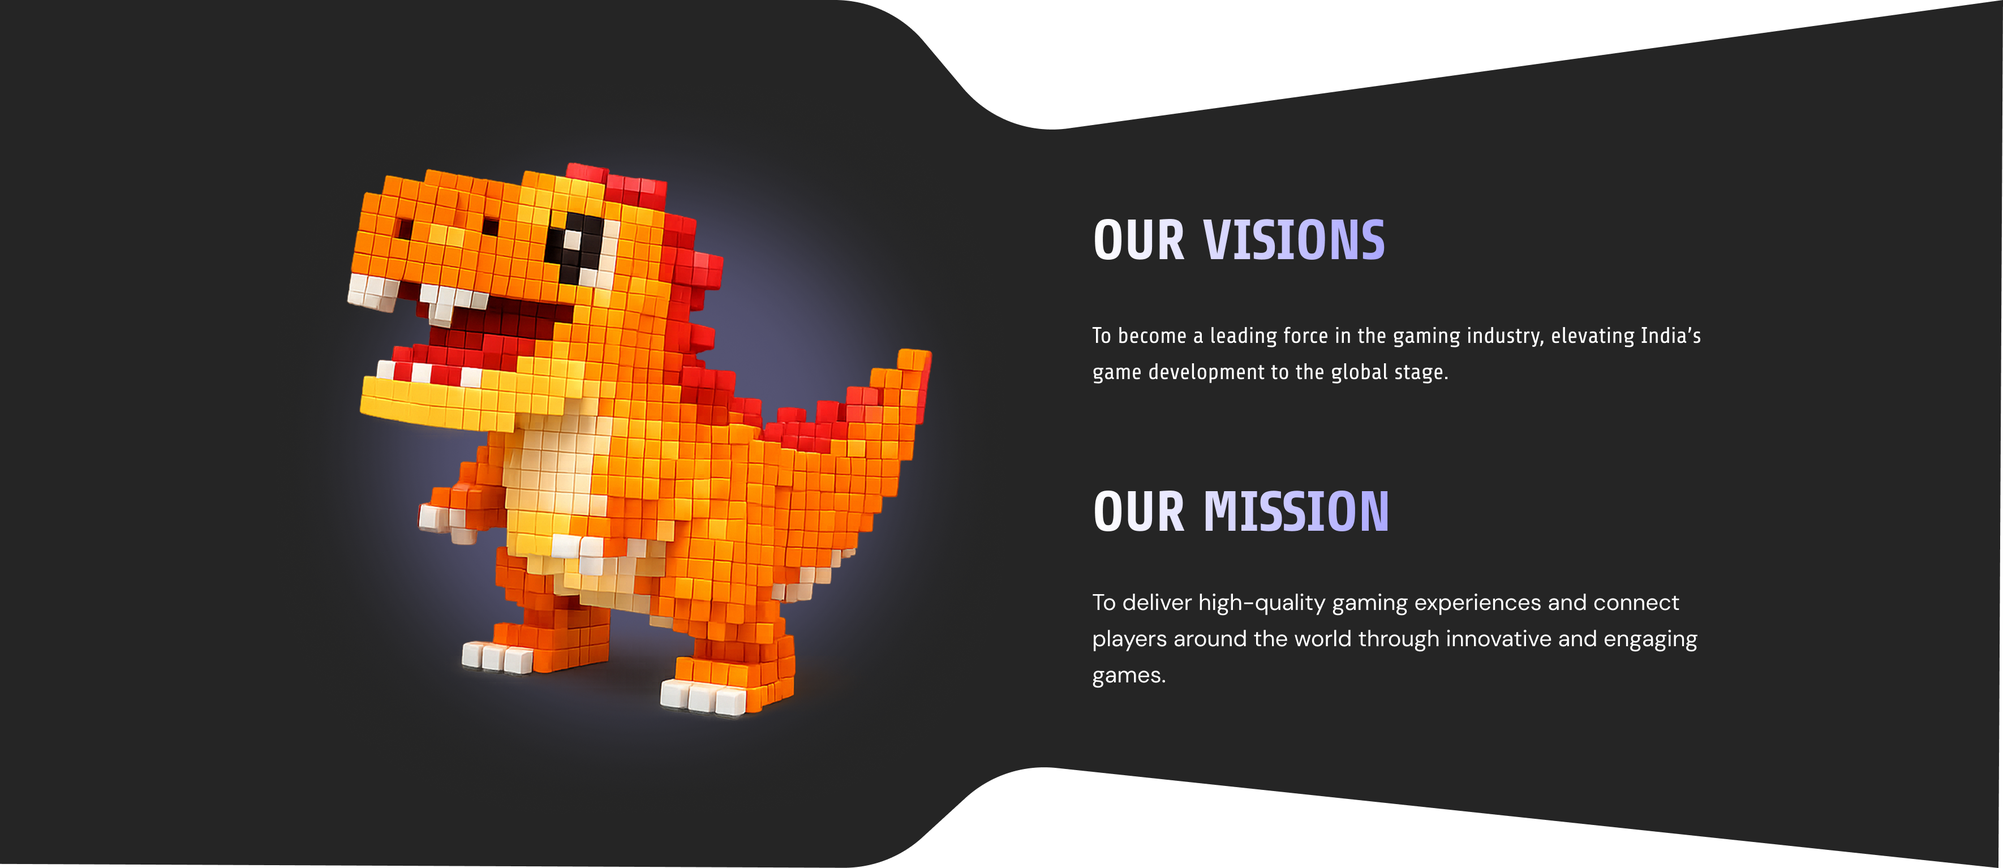
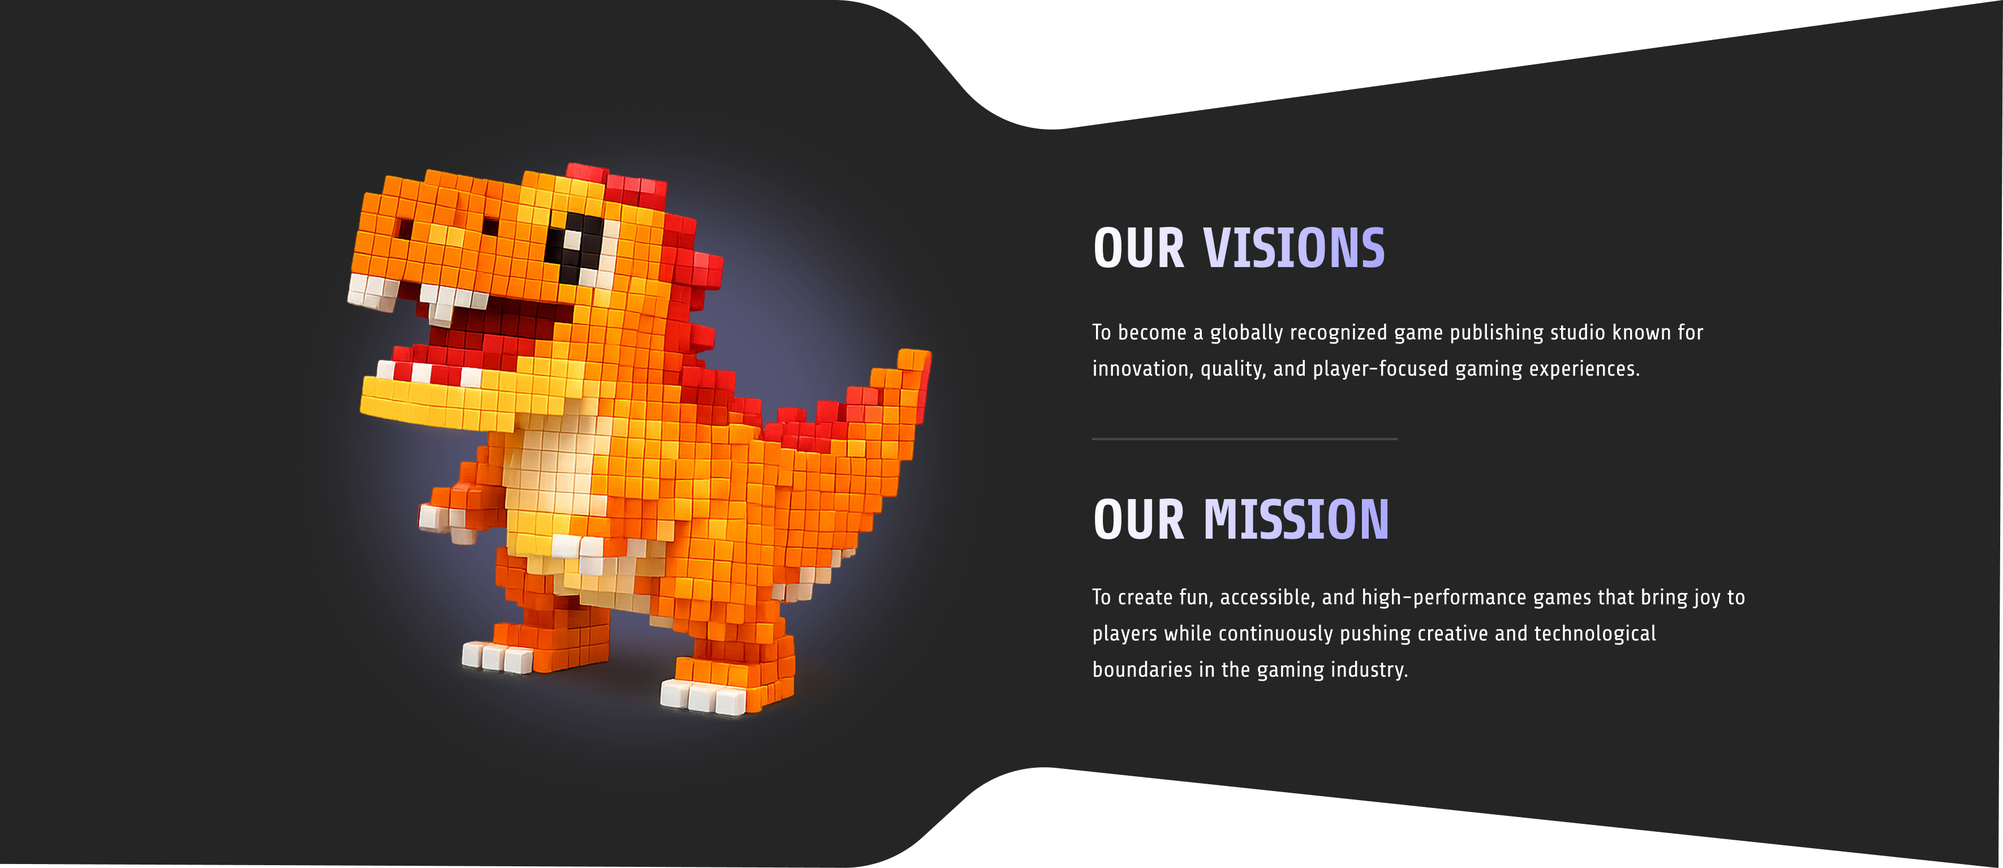
update project

diff --git a/app/components/pages/privacy-policy/page.jsx b/app/components/pages/privacy-policy/page.jsx
@@ -9,7 +9,7 @@ const sections = [
         content: (
             <>
 
-                Woxxin Solutions (a company registered in India (registration number U72200GJ2019PTC107596), whose registered office is at SHOP 128,1ST FLOOR,SY.NO.2111 TPS-24 FP-34.OPP.AKHAND ANAND COLLEGE, VED ROAD Surat Gujarat India 395004) is the data controller of the personal information that we collect from you. Woxxin Solution are referred to in this Privacy Policy as “Woxxin Solution”, “us”, “we” or “our”. <br /><br />
+                Woxxin Solutions (a company registered in India (registration number U72200GJ2019PTC107596), whose registered office is at SHOP 128,1ST FLOOR,SY.NO.2111 TPS-24 FP-34.OPP.AKHAND ANAND COLLEGE, VED ROAD Surat, Gujarat, India 395004) is the data controller of the personal information that we collect from you. Woxxin Solution are referred to in this Privacy Policy as “Woxxin Solution”, “us”, “we” or “our”. <br /><br />
                 <span>  We are committed to providing fun and exciting digital entertainment. This Privacy Policy explains how and what personal data relating to you
                     we may use in relation to our main website{" "}
 
@@ -31,7 +31,7 @@ const sections = [
                 This Privacy Policy governs the collection, storage and use of personal information by us via our websites, apps and Services. It provides you with details about the personal information we collect from you, how we use your personal information, and your rights regarding the personal information we hold about you. Please read this Privacy Policy carefully.
                 <br /><br />
 
-                <span className="text-white font-light text-xl mb-5">Third party sites:-</span> <br /><br /> <span>Please note that the Services may contain links to websites or other services owned and operated by third parties.We do not endorse any such third - party services.We are not responsible or liable for anything that happens to you when you visit or use these services.Woxxin Solution strongly recommends that you review the privacy policies and cookie usage of these third parties</span>
+                <span className="text-white font-light text-xl mb-5">Third party sites:-</span> <br /><br /> <span>Please note that the Services may contain links to websites or other services owned and operated by third parties. We do not endorse any such third - party services.We are not responsible or liable for anything that happens to you when you visit or use these services. Woxxin Solution strongly recommends that you review the privacy policies and cookie usage of these third parties</span>
 
 
             </>
@@ -155,7 +155,7 @@ const sections = [
         id: "keepHold",
         title: "How long does Woxxin Solution keep hold of data?",
         content: (<>
-            We will keep data only for as long as it is relevant and useful for the purpose for which it was originally collected and otherwise where required by law. This means that we will only retain your data for the minimum reasonable time period to allow us to provide our Services to you. If you decide to delete an account you have with us, certain data does stay on our Woxxin Solution system for administrative purposes and to defend or bring any legal action.
+            We will keep data only for as long as it is relevant and useful for the purpose for which it was originally collected and otherwise where required by law. This means that we will only retain your data for the minimum reasonable time period to allow us to provide our Services to you. If you decide to delete an account you have with us, certain data does stay on our Woxxin Solution system for administrative purposes and to defend or bring any legal action.Please email us at woxxingames@gmail.com for information regarding retention periods.
         </>)
     },
     {
@@ -244,7 +244,7 @@ const sections = [
         id: "OPT-OUT",
         title: "OPT-OUT (Right to Restrict Processing)",
         content: (<>
-            You have the right to opt out of certain uses and disclosures of your Personal Information. When you have consented to Woxxins’ processing of your Personal Information other information, you may withdraw that consent at any time and opt out to further processing by opening an in-game support ticket or, alternatively, by contacting support@Woxxingames.com. Even if you opt out, we may still collect and use anonymized, non-Personal Information regarding your activities on our Services.
+            You have the right to opt out of certain uses and disclosures of your Personal Information. When you have consented to Woxxins’ processing of your Personal Information other information, you may withdraw that consent at any time and opt out to further processing by opening an in-game support ticket or, alternatively, by contacting woxxingames@gmail.com. Even if you opt out, we may still collect and use anonymized, non-Personal Information regarding your activities on our Services.
             <br />,<br />
             Please also note that certain records, for example, those relating to payments or customer service matters, will be held for legal and accounting purposes. If you have sent content through or posted content on the Service, we may not be able to delete it.
             <br /><br />
@@ -271,13 +271,13 @@ const sections = [
         id: "ORectification",
         title: "Rights of Access, Rectification, Erasure, and Restriction",
         content: (<>
-            You have the right to request access to and rectification or erasure of Personal Information. You can manage your information as described in this Privacy Policy, and you may have additional rights related to that information as described below. You can exercise these rights by opening a help ticket directly in-game via the ‘Help’ section, or by emailing Woxxin at support@Woxxingames.com. Please note that we will need sufficient information establishing your identity in order for us to fulfill your request. Where we can validate your identity, we will process any such request within a reasonable timeframe and in accordance with applicable law.
+            You have the right to request access to and rectification or erasure of Personal Information. You can manage your information as described in this Privacy Policy, and you may have additional rights related to that information as described below. You can exercise these rights by opening a help ticket directly in-game via the ‘Help’ section, or by emailing Woxxin at woxxingames@gmail.com. Please note that we will need sufficient information establishing your identity in order for us to fulfill your request. Where we can validate your identity, we will process any such request within a reasonable timeframe and in accordance with applicable law.
             <br /><br />
             <span className="text-white font-light text-xl mb-5">1. Accessing, Updating, or Correcting Your Data</span> <br /><br />
-            You are expected to maintain accurate, complete, and up-to-date information in connection with your account, but we provide you functionality to update or correct your information directly in-app. You can also access a range of information in-app, including things like your user name, picture or avatar, game performance and progress, virtual items, chats, or other information you may have entered in-app. For any information that you are not able to access or update directly, please open an in-game help ticket via the ‘Help’ section for that particular game, or contact support@Woxxingames.com.
+            You are expected to maintain accurate, complete, and up-to-date information in connection with your account, but we provide you functionality to update or correct your information directly in-app. You can also access a range of information in-app, including things like your user name, picture or avatar, game performance and progress, virtual items, chats, or other information you may have entered in-app. For any information that you are not able to access or update directly, please open an in-game help ticket via the ‘Help’ section for that particular game, or contact woxxingames@gmail.com.
             <br /><br />
             <span className="text-white font-light text-xl mb-5">2. Deletion of Your Data</span> <br /><br />
-            You have the right to request deletion of your personal information, subject to our data retention policy mentioned below. If you would like to have your personal information deleted with respect to any games you’ve played, please open an in-game help ticket via the ‘Help’ section for that game. If you have played multiple Woxxin games and want to have your personal information deleted as to all of them, please open a help ticket directly in-game via the ‘Help’ section for each of those games, or contact support@Woxxingames.com for help. Please note that if you delete your personal information, you may no longer use or access the Services, and that if you share devices with someone else who uses the Services, that person may lose game progress or related account information and access. If you decide to use or access the Services again, Woxxin may consider this a new account and may collect personal information associated with that account in accordance with this Privacy Policy.
+            You have the right to request deletion of your personal information, subject to our data retention policy mentioned below. If you would like to have your personal information deleted with respect to any games you’ve played, please open an in-game help ticket via the ‘Help’ section for that game. If you have played multiple Woxxin games and want to have your personal information deleted as to all of them, please open a help ticket directly in-game via the ‘Help’ section for each of those games, or contact woxxingames@gmail.com for help. Please note that if you delete your personal information, you may no longer use or access the Services, and that if you share devices with someone else who uses the Services, that person may lose game progress or related account information and access. If you decide to use or access the Services again, Woxxin may consider this a new account and may collect personal information associated with that account in accordance with this Privacy Policy.
 
         </>)
     },
@@ -308,7 +308,7 @@ const sections = [
         id: "Guardians",
         title: "For Parents/Guardians",
         content: (<>
-            If you would like to review or amend your child’s information, ask to have it deleted, and/or refuse to allow any further collection or use of your child’s information, then please send an email to our Data Protection Officer at support@Woxxingames.com. Please be sure to include your email address and a telephone number where we can reach you. To protect your child’s privacy and security, we will take reasonable steps to help verify your identity before granting you access to the information that we collect and maintain about your child.
+            If you would like to review or amend your child’s information, ask to have it deleted, and/or refuse to allow any further collection or use of your child’s information, then please send an email to our Data Protection Officer at woxxingames@gmail.com. Please be sure to include your email address and a telephone number where we can reach you. To protect your child’s privacy and security, we will take reasonable steps to help verify your identity before granting you access to the information that we collect and maintain about your child.
             <br /><br />
             We recommend that parents take the time to communicate and educate their children about Internet Safety.
         </>)
@@ -327,7 +327,7 @@ const sections = [
             <br /><br />
             If you have an account with us, in certain games, you can view and edit your profile to change the settings in order to prevent others being able to add you as a friend.
             <br /><br />
-            If you wish to exercise any of the above rights, please get in touch with us by emailing support@Woxxingames.com.
+            If you wish to exercise any of the above rights, please get in touch with us by emailing woxxingames@gmail.com.
 
         </>)
     },
@@ -335,7 +335,7 @@ const sections = [
         id: "getCopy",
         title: "How do I get a copy of my data?",
         content: (<>
-            You have the right to ask us to provide you with copies of personal data that we hold about you at any time. Please contact us by emailing support@Woxxingames.com.
+            You have the right to ask us to provide you with copies of personal data that we hold about you at any time. Please contact us by emailing woxxingames@gmail.com.
 
         </>)
     },
@@ -343,7 +343,7 @@ const sections = [
         id: "contact",
         title: "How can I contact Woxxin Solution?",
         content: (<>
-            If you have any questions about this Privacy Policy or wish to request a copy of the data which we hold about you, please contact our Data Protection Officer at support@Woxxingames.com.
+            If you have any questions about this Privacy Policy or wish to request a copy of the data which we hold about you, please contact our Data Protection Officer at woxxingames@gmail.com.
 
         </>)
     },
@@ -351,7 +351,7 @@ const sections = [
         id: "complaint",
         title: "What can I do if I have a complaint?",
         content: (<>
-            If you are not satisfied with the way your query or complaint is handled by Woxxin Solution, please let us know by emailing us at support@Woxxingames.com.
+            If you are not satisfied with the way your query or complaint is handled by Woxxin Solution, please let us know by emailing us at woxxingames@gmail.com.
             <br /><br />
             List of advertising partners used in Woxxin Solution’s games
 

diff --git a/app/components/pages/about-us/page.jsx b/app/components/pages/about-us/page.jsx
@@ -9,7 +9,7 @@ import { Pagination } from "swiper/modules";
 import CountUp from "react-countup";
 import { motion } from "framer-motion";
 import "animate.css";
-
+import Link from "next/link";
 
 const games = [
     "/S1.png",
@@ -73,21 +73,19 @@ function Aboutus() {
                                     />
                                 </div>
 
-                                {/* BUTTON */}
-                                <div className="relative bg-[#EDEDF5] pl-10 pr-10 py-2 rounded-full">
+                                <Link href="/components/pages/games"> {/* 👈 change route */}
+                                    <div className="relative bg-[#EDEDF5] pl-10 pr-10 py-2 rounded-full cursor-pointer">
 
-                                    <span className="text-[#8B8CF8] text-sm md:text-md font-light whitespace-nowrap">
-                                        Start Your Journey
-                                    </span>
+                                        <span className="text-[#8B8CF8] text-sm md:text-md font-semibold whitespace-nowrap">
+                                            Start Your Journey
+                                        </span>
 
-                                    {/* 🔥 LUCIDE ARROW */}
-                                    <div className="absolute right-[-12px] top-1/2 -translate-y-1/2 w-7 h-7 flex items-center justify-center rounded-full bg-[#AAA7FE] text-white shadow-md">
-
-                                        <ArrowUpRight size={16} strokeWidth={2.5} />
+                                        <div className="absolute right-[-12px] top-1/2 -translate-y-1/2 w-7 h-7 flex items-center justify-center rounded-full bg-[#AAA7FE] text-white shadow-md">
+                                            <ArrowUpRight size={16} strokeWidth={2.5} />
+                                        </div>
 
                                     </div>
-
-                                </div>
+                                </Link>
 
                             </div>
                         </motion.div>
@@ -169,8 +167,7 @@ function Aboutus() {
                                     </span>
                                 </h2>
                                 <p className="mt-3 text-gray-400 text-md leading-relaxed">
-                                    To become a leading force in the gaming industry, elevating India’s
-                                    game development to the global stage.
+                                    To become a globally recognized game publishing studio known for innovation, quality, and player-focused gaming experiences.
                                 </p>
                             </div>
                         </motion.div>
@@ -190,8 +187,7 @@ function Aboutus() {
                                     </span>
                                 </h2>
                                 <p className="mt-3 text-gray-400 text-md leading-relaxed">
-                                    To deliver high-quality gaming experiences and connect players
-                                    around the world through innovative and engaging games.
+                                    To create fun, accessible, and high-performance games that bring joy to players while continuously pushing creative and technological boundaries in the gaming industry.
                                 </p>
                             </div>
                         </motion.div>
@@ -209,13 +205,13 @@ function Aboutus() {
                         <motion.div {...fadeUp}>
 
                             <h2 className="text-[28px] sm:text-[34px] md:text-[42px] font-extrabold tracking-wide bg-gradient-to-r from-[#FFFFFF] to-[#AAA7FE] bg-clip-text text-transparent">
-                                GAME PUBLISH
+                                GAME PUBLISHING
                             </h2>
                         </motion.div>
                         <motion.div {...fadeUp}>
 
                             <p className="mt-4 text-gray-400 text-md sm:text-xl leading-relaxed max-w-xl mx-auto md:mx-0">
-                                At Woxxin Games, we combine years of game distribution expertise with a powerful data-driven approach to help developers grow. As a trusted global partner, we optimize performance, boost visibility, and maximize your game’s revenue.
+                                At Woxxin Games, we combine game distribution expertise with a powerful data-driven approach to help developers grow. As a trusted global partner, we optimize performance, boost visibility, and maximize your game’s revenue potential.
                             </p>
                         </motion.div>
 

diff --git a/app/components/common/footer.jsx b/app/components/common/footer.jsx
@@ -20,14 +20,33 @@ export default function Footer() {
 
                 {/* DESCRIPTION */}
                 <p className="text-gray-300 text-sm sm:text-base md:text-lg leading-relaxed max-w-2xl mx-auto">
-                    Woxxin Games is a mobile game publisher located in Surat, India. We established in the year 2021. Our goal is to provide entertainment to people through our games.
+                    Woxxin Games is a mobile game publisher based in Surat, India, founded in 2021. We create immersive games designed to entertain, engage, and inspire players worldwide.
                 </p>
 
                 {/* SOCIAL LINKS (TEXT STYLE) */}
                 <div className="flex justify-center gap-6 mt-8 text-gray-400 text-sm uppercase tracking-wide">
-                    <Link href="https://www.youtube.com/channel/UCJJOqSmgPQuQiGoCVGdAWZQ" className="hover:text-white transition">Youtube</Link>
-                    <Link href="https://www.instagram.com/woxxinsolution?utm_source=qr&igsh=MWl0d2p4ZGhsdDE0ag==" className="hover:text-white transition ">Instagram</Link>
-                    <Link href="https://www.linkedin.com/company/woxxinsolution/ " className="hover:text-white transition ">LinkedIn</Link>
+
+                    <Link
+                        href="https://www.youtube.com/channel/UCJJOqSmgPQuQiGoCVGdAWZQ"
+                        className="hover:text-white hover:underline underline-offset-4 decoration-[#AAA7FE] transition"
+                    >
+                        Youtube
+                    </Link>
+
+                    <Link
+                        href="https://www.instagram.com/woxxinsolution"
+                        className="hover:text-white hover:underline underline-offset-4 decoration-[#AAA7FE] transition"
+                    >
+                        Instagram
+                    </Link>
+
+                    <Link
+                        href="https://www.linkedin.com/company/woxxinsolution/"
+                        className="hover:text-white hover:underline underline-offset-4 decoration-[#AAA7FE] transition"
+                    >
+                        LinkedIn
+                    </Link>
+
                 </div>
             </div>
 
@@ -52,7 +71,7 @@ export default function Footer() {
                 {/* RIGHT */}
                 <div>
                     Copyright ©  {new Date().getFullYear()}{" "}
-                    <span className="text-[#AFAEFF]">Woxxin Games</span>.
+                    <span className="text-[#AFAEFF]">Woxxin Gameing Studio</span>.
                 </div>
 
             </div>

diff --git a/app/components/pages/terms-condition/page.jsx b/app/components/pages/terms-condition/page.jsx
@@ -226,9 +226,7 @@ const sections = [
             <br /><br />
             <span className="text-white font-light text-xl mb-5">4. Billing Support:
             </span> <br /><br />
-            For billing support, please contact us through <i className="text-blue-500 underline hover:text-blue-700 cursor-pointer">
-                support@woxxingames.com
-            </i>  or Please note that telephone support for billing-related issues and questions is available in English only. These telephone numbers are for billing-related issues and questions ONLY. The person that answers the telephone at these billing support telephone numbers will NOT be able to help you with technical issues, game play, or in-game purchasing questions. For non-billing customer assistance, you must contact us through Customer Support.
+            For billing support,  Please note that telephone support for billing-related issues and questions is available in English only. These telephone numbers are for billing-related issues and questions ONLY. The person that answers the telephone at these billing support telephone numbers will NOT be able to help you with technical issues, game play, or in-game purchasing questions. For non-billing customer assistance, you must contact us through Customer Support.
         </>)
     },
     {

diff --git a/app/globals.css b/app/globals.css
@@ -24,19 +24,6 @@ body {
   color: black;
   font-family: var(--font-poppins);
 }
-/* Heading font */
-/* .heading {
-  font-family: var(--font-wendy);
-}
-
-/* Optional utility classes */
-/* .font-wendy {
-  font-family: var(--font-wendy);
-}
-
-.font-poppins {
-  font-family: var(--font-poppins);
-} */
 
 /* ---------------------------------------- */
 

diff --git a/app/components/common/navbar.jsx b/app/components/common/navbar.jsx
@@ -82,7 +82,7 @@ export default function Navbar() {
                 text-white text-xl font-medium
                 px-5 py-2 pr-10
                 rounded-full
-                border border-white/40
+                border border-white/80
                 hover:border-white
                 transition-all duration-300
               "
